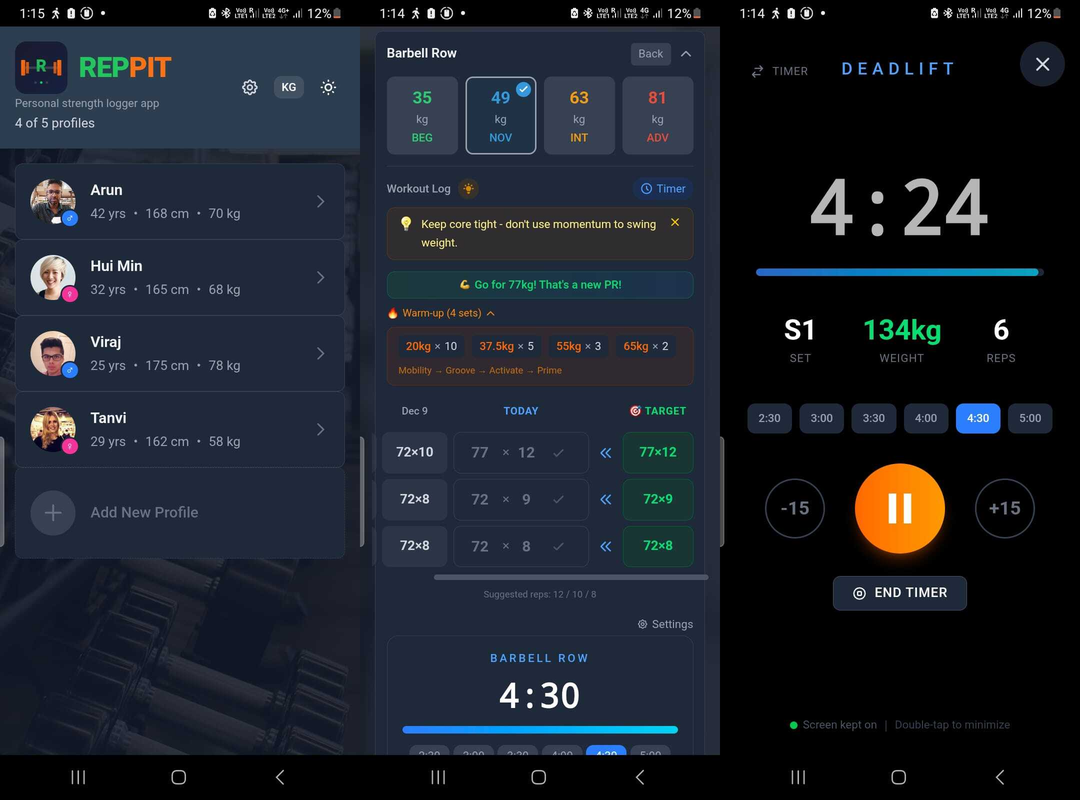
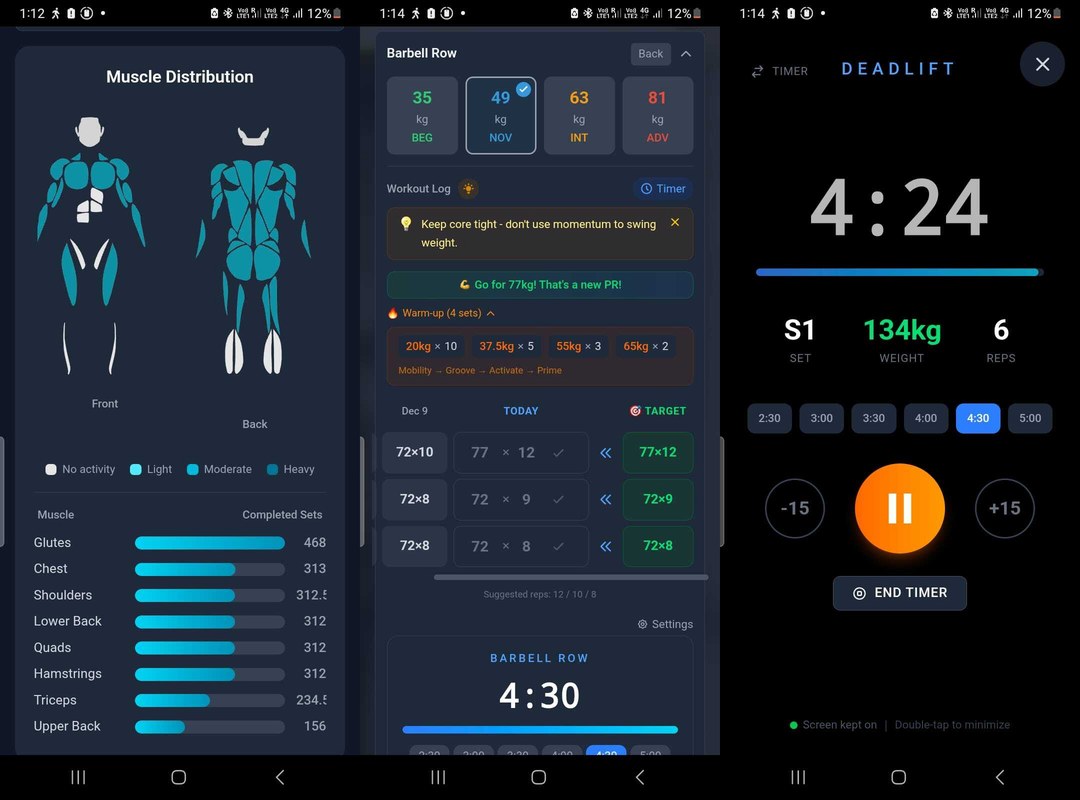
Timeline updates: toggle positioning and creative milestone descriptions
- Move Career Only/Life + Career toggle to left-align with Career Journey header
- Keep Career Journey title centered using absolute positioning
- Add mobile responsive CSS for toggle stacking
- Update personal milestone descriptions with creative copy:
  - Marriage: "Plot twist: Found the co-star of my life story"
  - Thiya: "New project manager arrived - zero experience, maximum authority"
  - Fitness: "From sedentary to shredded"
  - Wedding Photography: "Traded code for cameras"
  - Short Film Award: "Creative DNA confirmed - won against 20+ teams"
  - Faith: "Found the source of truth"

🤖 Generated with [Claude Code](https://claude.com/claude-code)

diff --git a/resume/index.html b/resume/index.html
@@ -3836,6 +3836,7 @@
       justify-content: center;
       gap: 0.75rem;
       margin-bottom: 0.25rem;
+      position: relative;
     }
 
     .exp-timeline-title {
@@ -4037,9 +4038,11 @@
     /* Timeline View Toggle */
     .timeline-mode-toggle {
       display: flex;
-      justify-content: center;
       gap: 0.5rem;
-      margin-bottom: 1.5rem;
+      position: absolute;
+      left: 0;
+      top: 50%;
+      transform: translateY(-50%);
     }
 
     .timeline-mode-btn {
@@ -4346,7 +4349,18 @@
 
     /* Mobile responsive */
     @media (max-width: 768px) {
-      .timeline-mode-toggle { flex-wrap: wrap; justify-content: center; }
+      .timeline-mode-toggle {
+        position: static;
+        transform: none;
+        flex-wrap: wrap;
+        justify-content: center;
+        margin-bottom: 0.5rem;
+        width: 100%;
+      }
+      .exp-timeline-title-row {
+        flex-direction: column;
+        gap: 0.5rem;
+      }
       .life-legend { justify-content: center; }
 
       /* Stack tracks vertically on mobile */
@@ -4823,24 +4837,23 @@
 
         <!-- Timeline View (default) -->
         <div id="exp-timeline-view" style="padding: 0.5rem 2rem 2rem 2rem;">
-          <!-- Timeline Header -->
+          <!-- Timeline Header with Inline Toggle -->
           <div class="exp-timeline-header">
             <div class="exp-timeline-title-row">
+              <!-- Toggle buttons on the left -->
+              <div class="timeline-mode-toggle">
+                <button class="timeline-mode-btn active" onclick="toggleTimelineMode('career')" id="btn-career-timeline">
+                  <span class="mode-icon">💼</span> Career Only
+                </button>
+                <button class="timeline-mode-btn" onclick="toggleTimelineMode('combined')" id="btn-combined-timeline">
+                  <span class="mode-icon">🌟</span> Life + Career
+                </button>
+              </div>
               <div class="exp-timeline-pulse"></div>
               <h3 class="exp-timeline-title">Career Journey</h3>
               <div class="exp-timeline-pulse"></div>
             </div>
             <p class="exp-timeline-tagline">17+ years of enterprise solutioning</p>
-          </div>
-
-          <!-- Timeline Mode Toggle -->
-          <div class="timeline-mode-toggle">
-            <button class="timeline-mode-btn active" onclick="toggleTimelineMode('career')" id="btn-career-timeline">
-              <span class="mode-icon">💼</span> Career Only
-            </button>
-            <button class="timeline-mode-btn" onclick="toggleTimelineMode('combined')" id="btn-combined-timeline">
-              <span class="mode-icon">🌟</span> Life + Career
-            </button>
           </div>
 
           <div class="timeline-view" id="career-timeline">
@@ -4882,11 +4895,23 @@
               <div class="personal-track">
                 <div class="life-event">
                   <div class="life-event-header">
+                    <span class="life-event-year">2025</span>
+                    <span class="life-event-badge">Personal</span>
+                  </div>
+                  <div class="life-event-title">AI-Assisted Learning Journey</div>
+                  <div class="life-event-summary">New co-pilot unlocked. Building apps with Claude, learning at 10x speed.</div>
+                  <div class="life-event-gallery">
+                    <img src="https://images.unsplash.com/photo-1677442136019-21780ecad995?w=100&h=100&fit=crop" alt="AI" class="life-event-gallery-img">
+                    <img src="https://images.unsplash.com/photo-1526374965328-7f61d4dc18c5?w=100&h=100&fit=crop" alt="Tech" class="life-event-gallery-img">
+                  </div>
+                </div>
+                <div class="life-event">
+                  <div class="life-event-header">
                     <span class="life-event-year">2024</span>
                     <span class="life-event-badge">Personal</span>
                   </div>
                   <div class="life-event-title">Professional Fitness Journey</div>
-                  <div class="life-event-summary">Morning strength training. Coaching 3-4 people. Best shape at 40+.</div>
+                  <div class="life-event-summary">From sedentary to shredded. Now coaching others to escape the dad-bod zone.</div>
                   <div class="life-event-gallery">
                     <img src="https://images.unsplash.com/photo-1534438327276-14e5300c3a48?w=100&h=100&fit=crop" alt="Strength training" class="life-event-gallery-img">
                     <img src="https://images.unsplash.com/photo-1571019613454-1cb2f99b2d8b?w=100&h=100&fit=crop" alt="Fitness" class="life-event-gallery-img">
@@ -4898,7 +4923,7 @@
                     <span class="life-event-badge">Personal</span>
                   </div>
                   <div class="life-event-title">Princess Thiya Arrived</div>
-                  <div class="life-event-summary">Little princess joins the family. A new chapter of fatherhood.</div>
+                  <div class="life-event-summary">New project manager arrived - zero experience, maximum authority.</div>
                   <div class="life-event-gallery">
                     <img src="https://images.unsplash.com/photo-1519689680058-324335c77eba?w=100&h=100&fit=crop" alt="Family" class="life-event-gallery-img">
                     <img src="https://images.unsplash.com/photo-1476703993599-0035a21b17a9?w=100&h=100&fit=crop" alt="Baby" class="life-event-gallery-img">
@@ -4960,11 +4985,23 @@
               <div class="personal-track">
                 <div class="life-event">
                   <div class="life-event-header">
+                    <span class="life-event-year">2015</span>
+                    <span class="life-event-badge">Personal</span>
+                  </div>
+                  <div class="life-event-title">Best Short Film Award</div>
+                  <div class="life-event-summary">Creative DNA confirmed. Script to screen - won against 20+ shortlisted teams.</div>
+                  <div class="life-event-gallery">
+                    <img src="https://images.unsplash.com/photo-1485846234645-a62644f84728?w=100&h=100&fit=crop" alt="Film" class="life-event-gallery-img">
+                    <img src="https://images.unsplash.com/photo-1478720568477-152d9b164e26?w=100&h=100&fit=crop" alt="Cinema" class="life-event-gallery-img">
+                  </div>
+                </div>
+                <div class="life-event">
+                  <div class="life-event-header">
                     <span class="life-event-year">2014</span>
                     <span class="life-event-badge">Personal</span>
                   </div>
                   <div class="life-event-title">Marriage</div>
-                  <div class="life-event-summary">Life partner found. Beginning of family journey.</div>
+                  <div class="life-event-summary">Plot twist: Found the co-star of my life story. The sequel's been amazing.</div>
                   <div class="life-event-gallery">
                     <img src="https://images.unsplash.com/photo-1519741497674-611481863552?w=100&h=100&fit=crop" alt="Wedding" class="life-event-gallery-img">
                     <img src="https://images.unsplash.com/photo-1529634806980-85c3dd6d34ac?w=100&h=100&fit=crop" alt="Couple" class="life-event-gallery-img">
@@ -4975,8 +5012,8 @@
                     <span class="life-event-year">2012</span>
                     <span class="life-event-badge">Personal</span>
                   </div>
-                  <div class="life-event-title">Wedding Photography Phase</div>
-                  <div class="life-event-summary">Exploring creative side through professional photography.</div>
+                  <div class="life-event-title">Creative Arts Focus</div>
+                  <div class="life-event-summary">Traded code for cameras. Capturing 'I dos' between deployments.</div>
                   <div class="life-event-gallery">
                     <img src="https://images.unsplash.com/photo-1502982720700-bfff97f2ecac?w=100&h=100&fit=crop" alt="Photography" class="life-event-gallery-img">
                     <img src="https://images.unsplash.com/photo-1452802447250-470a88ac82bc?w=100&h=100&fit=crop" alt="Camera" class="life-event-gallery-img">
@@ -5003,19 +5040,15 @@
                   </div>
                 </div>
               </div>
-              <!-- Personal Track (Right) -->
+              <!-- Personal Track (Right) - spacer for this period -->
               <div class="personal-track">
-                <div class="life-event">
+                <div class="life-event" style="opacity: 0.3;">
                   <div class="life-event-header">
-                    <span class="life-event-year">2010</span>
+                    <span class="life-event-year">2008-2012</span>
                     <span class="life-event-badge">Personal</span>
                   </div>
-                  <div class="life-event-title">Best Short Film Award</div>
-                  <div class="life-event-summary">Won inter-departmental filmmaking competition at Infosys.</div>
-                  <div class="life-event-gallery">
-                    <img src="https://images.unsplash.com/photo-1485846234645-a62644f84728?w=100&h=100&fit=crop" alt="Film" class="life-event-gallery-img">
-                    <img src="https://images.unsplash.com/photo-1478720568477-152d9b164e26?w=100&h=100&fit=crop" alt="Cinema" class="life-event-gallery-img">
-                  </div>
+                  <div class="life-event-title">Career Focus Period</div>
+                  <div class="life-event-summary">Deep dive into international banking projects.</div>
                 </div>
               </div>
             </div>
@@ -5046,7 +5079,7 @@
                     <span class="life-event-badge">Faith</span>
                   </div>
                   <div class="life-event-title">Walking with Christ</div>
-                  <div class="life-event-summary">Beginning of faith journey. The foundation of values.</div>
+                  <div class="life-event-summary">Found the source of truth. The commit that changed everything.</div>
                   <div class="life-event-gallery">
                     <img src="https://images.unsplash.com/photo-1507692049790-de58290a4334?w=100&h=100&fit=crop" alt="Faith" class="life-event-gallery-img">
                     <img src="https://images.unsplash.com/photo-1504052434569-70ad5836ab65?w=100&h=100&fit=crop" alt="Journey" class="life-event-gallery-img">

diff --git a/docs/mockups/resume-digital.html b/docs/mockups/resume-digital.html
@@ -4653,15 +4653,7 @@
             <div class="flip-card-back">
               <div class="deliverable-container">
                 <div class="deliverable-screenshot">
-                  <!-- Replace with actual screenshot: <img src="screenshots/primmo.png" alt="PRIMMO Screenshot"> -->
-                  <div class="deliverable-placeholder">
-                    <svg viewBox="0 0 24 24" fill="none" stroke="currentColor" stroke-width="2">
-                      <path d="M12 2a3 3 0 0 0-3 3v7a3 3 0 0 0 6 0V5a3 3 0 0 0-3-3Z"/>
-                      <path d="M19 10v2a7 7 0 0 1-14 0v-2"/>
-                      <line x1="12" x2="12" y1="19" y2="22"/>
-                    </svg>
-                    <span>PRIMMO Preview</span>
-                  </div>
+                  <img src="../../assets/projects/primmo.png" alt="PRIMMO Architecture" style="width: 100%; height: 100%; object-fit: cover; border-radius: 8px;">
                 </div>
                 <div class="back-header" style="border-bottom: none; padding-bottom: 0; margin-bottom: 0.5rem;">
                   <h4 class="back-title" style="font-size: 0.9rem;">
@@ -4728,13 +4720,7 @@
             <div class="flip-card-back">
               <div class="deliverable-container">
                 <div class="deliverable-screenshot">
-                  <!-- Replace with actual screenshot: <img src="screenshots/reppit.png" alt="REPPIT Screenshot"> -->
-                  <div class="deliverable-placeholder">
-                    <svg viewBox="0 0 24 24" fill="none" stroke="currentColor" stroke-width="2">
-                      <circle cx="12" cy="5" r="3"/><path d="M12 22V8M5 12H2a10 10 0 0 0 20 0h-3"/>
-                    </svg>
-                    <span>REPPIT Preview</span>
-                  </div>
+                  <img src="../../assets/projects/reppit.png" alt="REPPIT App Screenshots" style="width: 100%; height: 100%; object-fit: cover; border-radius: 8px;">
                 </div>
                 <div class="back-header" style="border-bottom: none; padding-bottom: 0; margin-bottom: 0.5rem;">
                   <h4 class="back-title" style="font-size: 0.9rem;">
@@ -4802,16 +4788,7 @@
             <div class="flip-card-back">
               <div class="deliverable-container">
                 <div class="deliverable-screenshot">
-                  <!-- Replace with actual screenshot: <img src="screenshots/noteapp.png" alt="NoteApp Screenshot"> -->
-                  <div class="deliverable-placeholder">
-                    <svg viewBox="0 0 24 24" fill="none" stroke="currentColor" stroke-width="2" width="32" height="32">
-                      <path d="M14.5 2H6a2 2 0 0 0-2 2v16a2 2 0 0 0 2 2h12a2 2 0 0 0 2-2V7.5L14.5 2z"/>
-                      <polyline points="14 2 14 8 20 8"/>
-                      <line x1="16" y1="13" x2="8" y2="13"/>
-                      <line x1="16" y1="17" x2="8" y2="17"/>
-                    </svg>
-                    <span>NoteApp Preview</span>
-                  </div>
+                  <img src="../../assets/projects/noteapp.png" alt="NoteApp Screenshot" style="width: 100%; height: 100%; object-fit: cover; border-radius: 8px;">
                 </div>
                 <div class="back-header" style="border-bottom: none; padding-bottom: 0; margin-bottom: 0.5rem;">
                   <h4 class="back-title" style="font-size: 0.9rem;">NoteApp</h4>
@@ -5085,15 +5062,7 @@
             <div class="flip-card-back">
               <div class="deliverable-container">
                 <div class="deliverable-screenshot">
-                  <div class="deliverable-placeholder">
-                    <svg viewBox="0 0 24 24" fill="none" stroke="#22C55E" stroke-width="2" width="32" height="32">
-                      <path d="M3 3v18h18"/>
-                      <path d="M18 17V9"/>
-                      <path d="M13 17V5"/>
-                      <path d="M8 17v-3"/>
-                    </svg>
-                    <span>Portfolio Optimizer Preview</span>
-                  </div>
+                  <img src="../../assets/projects/portfolio-optimizer.png" alt="Portfolio Optimizer Screenshot" style="width: 100%; height: 100%; object-fit: cover; border-radius: 8px;">
                 </div>
                 <div class="back-header" style="border-bottom: none; padding-bottom: 0; margin-bottom: 0.5rem;">
                   <h4 class="back-title" style="font-size: 0.9rem;">Portfolio Optimizer</h4>

diff --git a/docs/PROJECT-STATUS.md b/docs/PROJECT-STATUS.md
@@ -155,11 +155,10 @@ Based on research from:
 
 ## Next Actions
 
-- [ ] Review V1 vs V2 mockups and choose direction
-- [ ] Add actual project screenshots/GIFs
-- [ ] Convert to Next.js project
-- [ ] Deploy to Vercel
-- [ ] Connect custom domain (castronix.dev)
+- [ ] Add screenshots for remaining projects (Spotify Songs, Space Race ML, Backtest Pro)
+- [ ] Finalize resume/index.html as production version
+- [ ] Set up custom domain (castronix.dev) on GitHub Pages
+- [ ] Add favicon and meta tags for SEO/social sharing
 
 ---
 
